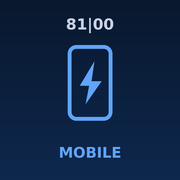
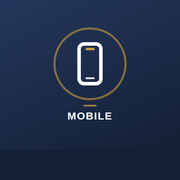
Mobile: restyling tema chiaro istituzionale + icone famiglia
Solo grafica/tema, nessuna logica toccata (id, funzioni, fetch/Supabase, struttura dati invariati).

- Tema da scuro (navy) a CHIARO ad alta leggibilita': blocco :root con la palette
  chiara base + colore-firma Mobile verde-teal #0e7c66.
- Font: da Inter/DM Mono/Syne a IBM Plex (Sans/Serif/Mono).
- Punti hardcoded corretti: teal #00b4a6 e rgba(0,180,166,*) -> #0e7c66/rgba(14,124,102,*);
  color:var(--navy) sui bottoni accento -> #fff; #0f1f3d -> #fff; testo chiaro fisso
  #e8eaf0 -> var(--text); blu #7aa0ff -> #3a52c4; font-family:monospace -> IBM Plex Mono.
  Scrim scuri delle modali conservati (fanno da velo su tema chiaro).
- theme-color e manifest aggiornati al colore-firma; background_color chiaro; icone
  purpose 'any' (no maskable); cache-bust ?v=2 sui link; sw cache -> v2.
- Nuove 5 icone della famiglia (base navy + anello oro + smartphone con notch oro +
  scritta MOBILE): icon-512/192, apple-touch-icon 180, favicon-32/16.

Claude-Session: https://claude.ai/code/session_01RkyLNG2qL5Mt4Jg2wrDvS1

diff --git a/index.html b/index.html
@@ -6,19 +6,24 @@
 <meta name="apple-mobile-web-app-capable" content="yes">
 <meta name="apple-mobile-web-app-status-bar-style" content="black-translucent">
 <meta name="apple-mobile-web-app-title" content="81|00">
-<meta name="theme-color" content="#0a1628">
+<meta name="theme-color" content="#0e7c66">
 <title>81|00 Mobile</title>
-<link rel="manifest" href="manifest.json">
-<link rel="apple-touch-icon" href="apple-touch-icon.png">
-<link href="https://fonts.googleapis.com/css2?family=Inter:wght@400;500;600;700;800&family=DM+Mono:wght@400;500&display=swap" rel="stylesheet">
+<link rel="manifest" href="manifest.json?v=2">
+<link rel="apple-touch-icon" href="apple-touch-icon.png?v=2">
+<link rel="icon" type="image/png" sizes="32x32" href="favicon-32.png?v=2">
+<link rel="icon" type="image/png" sizes="16x16" href="favicon-16.png?v=2">
+<link rel="icon" type="image/png" sizes="192x192" href="icon-192.png?v=2">
+<link rel="preconnect" href="https://fonts.googleapis.com">
+<link rel="preconnect" href="https://fonts.gstatic.com" crossorigin>
+<link href="https://fonts.googleapis.com/css2?family=IBM+Plex+Sans:wght@400;500;600;700&family=IBM+Plex+Serif:wght@600;700&family=IBM+Plex+Mono:wght@400;500;600&display=swap" rel="stylesheet">
 <style>
 *{box-sizing:border-box;margin:0;padding:0;-webkit-tap-highlight-color:transparent}
 :root{
-  --navy:#0a1628;--navy2:#0f1f3d;--teal:#00b4a6;--gold:#e8b84b;
-  --red:#e84b4b;--green:#4be87a;--text:#e8eaf0;--text2:#8a95a8;
-  --brd:rgba(255,255,255,.08);--card:rgba(255,255,255,.05);--r:14px
+  --navy:#eef1f5;--navy2:#ffffff;--teal:#0e7c66;--gold:#a9781a;
+  --red:#c0392f;--green:#2f8f5f;--text:#1b2740;--text2:#5f6a7d;
+  --brd:#e2e5ea;--card:#ffffff;--r:12px;--r2:8px
 }
-html,body{height:100%;background:var(--navy);color:var(--text);font-family:'Inter',-apple-system,BlinkMacSystemFont,'Helvetica Neue',sans-serif;overflow:hidden}
+html,body{height:100%;background:var(--navy);color:var(--text);font-family:'IBM Plex Sans',-apple-system,BlinkMacSystemFont,'Helvetica Neue',sans-serif;overflow:hidden}
 /* LAYOUT */
 #app{display:flex;flex-direction:column;height:100dvh}
 #hdr{background:var(--navy2);padding:calc(env(safe-area-inset-top)+10px) 16px 10px;display:flex;align-items:center;justify-content:space-between;border-bottom:1px solid var(--brd);flex-shrink:0}
@@ -55,14 +60,14 @@ html,body{height:100%;background:var(--navy);color:var(--text);font-family:'Inte
 /* BOTTONI */
 .btn{width:100%;padding:15px;border:none;border-radius:12px;font-family:-apple-system,sans-serif;font-size:16px;font-weight:700;cursor:pointer;margin-bottom:10px;transition:opacity .15s}
 .btn:active{opacity:.8}
-.btn-teal{background:var(--teal);color:var(--navy)}
-.btn-gold{background:var(--gold);color:var(--navy)}
+.btn-teal{background:var(--teal);color:#fff}
+.btn-gold{background:var(--gold);color:#fff}
 .btn-red{background:var(--red);color:#fff}
 .btn-ghost{background:var(--card);border:1px solid var(--brd);color:var(--text)}
 /* CHIP */
 .chips{display:flex;flex-wrap:wrap;gap:7px;margin-top:6px}
 .chip{padding:8px 14px;border-radius:20px;border:1px solid var(--brd);background:transparent;color:var(--text2);font-size:13px;font-weight:600;cursor:pointer}
-.chip.on{background:var(--teal);color:var(--navy);border-color:var(--teal)}
+.chip.on{background:var(--teal);color:#fff;border-color:var(--teal)}
 /* DIPENDENTE ROW */
 .dip-row{display:flex;align-items:center;padding:12px 0;border-bottom:1px solid var(--brd);gap:10px}
 .dip-row:last-child{border-bottom:none}
@@ -73,7 +78,7 @@ html,body{height:100%;background:var(--navy);color:var(--text);font-family:'Inte
 .dip-saldo{text-align:right;font-size:14px;font-weight:800;font-variant-numeric:tabular-nums;flex-shrink:0}
 /* PRESENZA CARD */
 .pres-card{background:var(--card);border:1px solid var(--brd);border-radius:12px;padding:12px;margin-bottom:8px}
-.pres-card.presente{border-color:rgba(0,180,166,.4);background:rgba(0,180,166,.05)}
+.pres-card.presente{border-color:rgba(14,124,102,.4);background:rgba(14,124,102,.05)}
 .pres-row{display:flex;align-items:center;gap:10px;margin-bottom:8px}
 .pres-toggle{width:44px;height:26px;border-radius:13px;border:none;cursor:pointer;position:relative;flex-shrink:0;transition:background .2s}
 .pres-toggle.on{background:var(--teal)}
@@ -89,7 +94,7 @@ html,body{height:100%;background:var(--navy);color:var(--text);font-family:'Inte
 /* FOTO */
 #foto-preview{width:100%;border-radius:10px;margin-bottom:10px;display:none;max-height:200px;object-fit:cover}
 /* TOAST */
-#toast{position:fixed;bottom:calc(env(safe-area-inset-bottom)+80px);left:50%;transform:translateX(-50%) translateY(20px);background:var(--teal);color:var(--navy);padding:10px 20px;border-radius:10px;font-weight:700;font-size:13px;opacity:0;transition:all .25s;z-index:99;pointer-events:none;white-space:nowrap}
+#toast{position:fixed;bottom:calc(env(safe-area-inset-bottom)+80px);left:50%;transform:translateX(-50%) translateY(20px);background:var(--teal);color:#fff;padding:10px 20px;border-radius:10px;font-weight:700;font-size:13px;opacity:0;transition:all .25s;z-index:99;pointer-events:none;white-space:nowrap}
 #toast.on{opacity:1;transform:translateX(-50%) translateY(0)}
 /* LOADING */
 #loading{position:fixed;inset:0;background:rgba(10,22,40,.9);display:flex;align-items:center;justify-content:center;z-index:100;flex-direction:column;gap:14px;display:none}
@@ -321,7 +326,7 @@ button{touch-action:manipulation}
   <div id="hdr-status">
     <span id="status-dot"></span>
     <span id="status-txt">Connessione...</span>
-    <button onclick="syncCloud()" style="background:rgba(0,180,166,.15);border:1px solid rgba(0,180,166,.3);color:var(--teal);border-radius:8px;padding:5px 10px;font-size:12px;font-weight:700;cursor:pointer">↻ Sync</button>
+    <button onclick="syncCloud()" style="background:rgba(14,124,102,.15);border:1px solid rgba(14,124,102,.3);color:var(--teal);border-radius:8px;padding:5px 10px;font-size:12px;font-weight:700;cursor:pointer">↻ Sync</button>
   </div>
 </div>
 
@@ -348,10 +353,10 @@ button{touch-action:manipulation}
       <input type="date" id="pres-data" onchange="loadPres();aggiornInfoPlanning()">
     </div>
     <!-- Box importa da Planning -->
-    <div style="background:rgba(0,180,166,.06);border:1px solid rgba(0,180,166,.2);border-radius:10px;padding:12px 14px;margin-bottom:12px">
+    <div style="background:rgba(14,124,102,.06);border:1px solid rgba(14,124,102,.2);border-radius:10px;padding:12px 14px;margin-bottom:12px">
       <div style="display:flex;align-items:center;justify-content:space-between;gap:10px;margin-bottom:8px">
         <div style="font-size:13px;font-weight:700;color:var(--teal)">📅 Importa dal Planning</div>
-        <button onclick="apriImportPlanningMob()" style="background:var(--teal);border:none;border-radius:8px;padding:8px 14px;color:var(--navy);font-size:12px;font-weight:800;cursor:pointer">Seleziona giorni</button>
+        <button onclick="apriImportPlanningMob()" style="background:var(--teal);border:none;border-radius:8px;padding:8px 14px;color:#fff;font-size:12px;font-weight:800;cursor:pointer">Seleziona giorni</button>
       </div>
       <div style="font-size:12px;color:var(--text2)">I dati esistenti non vengono mai modificati</div>
     </div>
@@ -372,7 +377,7 @@ button{touch-action:manipulation}
           <button onclick="setMobImpSettimana()" class="btn btn-ghost" style="flex:1;font-size:12px;padding:8px">Questa settimana</button>
         </div>
         <div id="mob-imp-anteprima"></div>
-        <button id="mob-imp-btn" onclick="confermImportaPlanningMob()" style="width:100%;background:var(--teal);border:none;border-radius:10px;padding:13px;color:var(--navy);font-size:14px;font-weight:800;cursor:pointer;margin-top:12px;opacity:.4" disabled>💾 Importa</button>
+        <button id="mob-imp-btn" onclick="confermImportaPlanningMob()" style="width:100%;background:var(--teal);border:none;border-radius:10px;padding:13px;color:#fff;font-size:14px;font-weight:800;cursor:pointer;margin-top:12px;opacity:.4" disabled>💾 Importa</button>
       </div>
     </div>
     <div style="display:flex;gap:8px;margin-bottom:14px">
@@ -475,7 +480,7 @@ button{touch-action:manipulation}
     <div style="font-size:18px;font-weight:800;margin-bottom:12px" id="dett-nome"></div>
 
     <!-- Budget inline -->
-    <div style="background:rgba(0,180,166,.08);border:1px solid rgba(0,180,166,.3);border-radius:12px;padding:14px;margin-bottom:14px">
+    <div style="background:rgba(14,124,102,.08);border:1px solid rgba(14,124,102,.3);border-radius:12px;padding:14px;margin-bottom:14px">
       <div style="font-size:12px;font-weight:700;text-transform:uppercase;letter-spacing:.5px;color:var(--teal);margin-bottom:4px">💰 Ricavo previsto / Budget</div>
       <div style="display:flex;justify-content:space-between;align-items:center;gap:8px">
         <div id="m-budget-val" style="font-size:20px;font-weight:800;color:var(--teal)">—</div>
@@ -484,7 +489,7 @@ button{touch-action:manipulation}
       <div id="m-budget-edit" style="display:none;margin-top:10px">
         <div style="display:flex;gap:8px">
           <input type="number" id="m-budget-input" placeholder="€" step="100" inputmode="decimal"
-            style="flex:1;background:var(--navy);border:1px solid var(--teal);border-radius:8px;color:var(--text);font-family:monospace;font-size:15px;padding:10px;outline:none">
+            style="flex:1;background:var(--navy);border:1px solid var(--teal);border-radius:8px;color:var(--text);font-family:'IBM Plex Mono',monospace;font-size:15px;padding:10px;outline:none">
           <button onclick="salvaMBudget()" style="background:var(--teal);border:none;border-radius:8px;padding:10px 16px;color:#fff;font-size:13px;font-weight:800;cursor:pointer">💾</button>
         </div>
       </div>
@@ -520,9 +525,9 @@ button{touch-action:manipulation}
     <!-- Filtro periodo -->
     <div style="display:flex;gap:8px;margin-bottom:14px;flex-wrap:wrap">
       <div style="flex:1"><label style="font-size:12px;color:var(--text2);font-weight:700;text-transform:uppercase;display:block;margin-bottom:3px">Da</label>
-        <input type="date" id="dett-da" onchange="renderDett()" style="background:var(--navy2);border:1px solid var(--brd);border-radius:8px;color:var(--text);font-family:monospace;font-size:13px;padding:8px 10px;width:100%;outline:none"></div>
+        <input type="date" id="dett-da" onchange="renderDett()" style="background:var(--navy2);border:1px solid var(--brd);border-radius:8px;color:var(--text);font-family:'IBM Plex Mono',monospace;font-size:13px;padding:8px 10px;width:100%;outline:none"></div>
       <div style="flex:1"><label style="font-size:12px;color:var(--text2);font-weight:700;text-transform:uppercase;display:block;margin-bottom:3px">A</label>
-        <input type="date" id="dett-al" onchange="renderDett()" style="background:var(--navy2);border:1px solid var(--brd);border-radius:8px;color:var(--text);font-family:monospace;font-size:13px;padding:8px 10px;width:100%;outline:none"></div>
+        <input type="date" id="dett-al" onchange="renderDett()" style="background:var(--navy2);border:1px solid var(--brd);border-radius:8px;color:var(--text);font-family:'IBM Plex Mono',monospace;font-size:13px;padding:8px 10px;width:100%;outline:none"></div>
       <button onclick="document.getElementById('dett-da').value='';document.getElementById('dett-al').value='';renderDett()" style="background:var(--navy2);border:1px solid var(--brd);border-radius:8px;padding:8px 12px;color:var(--text2);font-size:12px;margin-top:19px;cursor:pointer">Tutto</button>
     </div>
     <div id="dett-body"></div>
@@ -562,7 +567,7 @@ button{touch-action:manipulation}
       <div class="field"><label>Metodo</label><select id="minc-metodo"><option>Bonifico</option><option>Contanti</option><option>Assegno</option><option>RID/SEPA</option><option>Altro</option></select></div>
       <div class="field"><label>N° Fattura</label><input type="text" id="minc-fattura" placeholder="es. FT001/2026"></div>
       <div class="field"><label>Note</label><input type="text" id="minc-note" placeholder="es. Acconto 50%"></div>
-      <button onclick="salvaIncassoMob()" style="width:100%;background:var(--teal);border:none;border-radius:10px;padding:13px;color:var(--navy);font-size:14px;font-weight:800;cursor:pointer;margin-top:4px">💾 Registra</button>
+      <button onclick="salvaIncassoMob()" style="width:100%;background:var(--teal);border:none;border-radius:10px;padding:13px;color:#fff;font-size:14px;font-weight:800;cursor:pointer;margin-top:4px">💾 Registra</button>
     </div>
     <div id="inc-list-m"></div>
   </div>
@@ -594,7 +599,7 @@ button{touch-action:manipulation}
   .dia-f label{font-size:10.5px;text-transform:uppercase;letter-spacing:.5px;color:var(--text2);font-weight:700;padding-left:2px}
   .dia-f input,.dia-f select{background:var(--navy);border:1px solid var(--brd);border-radius:9px;color:var(--text);font-family:inherit;font-size:13.5px;padding:9px 10px;outline:none;width:100%;-webkit-appearance:none}
   .dia-f input:focus,.dia-f select:focus{border-color:var(--teal)}
-  .dia-f.eur input{font-family:monospace;color:var(--gold)}
+  .dia-f.eur input{font-family:'IBM Plex Mono',monospace;color:var(--gold)}
   select.dia-ok{border-color:rgba(75,232,122,.45)}
   select.dia-warn{border-color:rgba(232,184,75,.55);background:rgba(232,184,75,.06)}
   .dia-badge{font-size:10.5px;font-weight:700;padding-left:2px}
@@ -602,7 +607,7 @@ button{touch-action:manipulation}
   .dia-badge.warn{color:var(--gold)}
   .dia-seg{display:flex;gap:6px}
   .dia-segb{flex:1;padding:8px;border-radius:9px;border:1px solid var(--brd);background:var(--navy);color:var(--text2);font-size:12.5px;font-weight:700;cursor:pointer;font-family:inherit}
-  .dia-segb.on{background:rgba(0,180,166,.14);border-color:var(--teal);color:var(--teal)}
+  .dia-segb.on{background:rgba(14,124,102,.14);border-color:var(--teal);color:var(--teal)}
   .dia-chips{display:flex;flex-wrap:wrap;gap:6px}
   .dia-pchip{font-size:12px;font-weight:600;padding:5px 10px;border-radius:999px;border:1px solid var(--brd);background:var(--navy)}
   .dia-pchip.ok{color:var(--green);border-color:rgba(75,232,122,.35)}
@@ -1051,7 +1056,7 @@ function renderIncassiMob(){
         ${c.committente?`<div style="font-size:12px;color:var(--text2)">${c.committente}</div>`:''}
         </div>
         <div style="text-align:right">
-          <div style="font-size:13px;font-weight:700;color:${residuo>0?'var(--gold)':'var(--green)'};font-family:monospace">${fm(totaleInc)}${ricavo?` / ${fm(ricavo)}`:''}</div>
+          <div style="font-size:13px;font-weight:700;color:${residuo>0?'var(--gold)':'var(--green)'};font-family:'IBM Plex Mono',monospace">${fm(totaleInc)}${ricavo?` / ${fm(ricavo)}`:''}</div>
           <div style="font-size:12px;color:var(--text2)">${pct>=100?'✅ Saldato':residuo>0?`residuo: ${fm(residuo)}`:'nessun budget'}</div>
         </div>
       </div>
@@ -1062,11 +1067,11 @@ function renderIncassiMob(){
           ${x.fattura?`<div style="font-size:12px;color:var(--text2)">${x.fattura}</div>`:''}
           </div>
           <div style="display:flex;align-items:center;gap:8px">
-            <span style="font-family:monospace;font-weight:700;color:var(--green)">+${fm(x.importo)}</span>
+            <span style="font-family:'IBM Plex Mono',monospace;font-weight:700;color:var(--green)">+${fm(x.importo)}</span>
             <button onclick="elimIncassoMob('${x.id}')" style="background:none;border:none;color:var(--red);font-size:14px;cursor:pointer">✕</button>
           </div>
         </div>`).join('')}
-      ${ricavo>0&&residuo>0?`<button onclick="precompilaMIncasso('${c.id}','${residuo}')" style="width:100%;margin-top:8px;background:rgba(0,180,166,.08);border:1px dashed var(--teal);border-radius:8px;padding:9px;color:var(--teal);font-size:12px;font-weight:700;cursor:pointer">
+      ${ricavo>0&&residuo>0?`<button onclick="precompilaMIncasso('${c.id}','${residuo}')" style="width:100%;margin-top:8px;background:rgba(14,124,102,.08);border:1px dashed var(--teal);border-radius:8px;padding:9px;color:var(--teal);font-size:12px;font-weight:700;cursor:pointer">
         + Saldo (${fm(residuo)})</button>`:''}
     </div>`;
   });
@@ -1301,7 +1306,7 @@ function loadPres(){
 
     return`<div class="pres-card ${presente?'presente':''}" id="pc-${p.id}">
       <div class="pres-row">
-        <div class="av" style="${presente?'background:rgba(0,180,166,.2);color:var(--teal)':''}">${init}</div>
+        <div class="av" style="${presente?'background:rgba(14,124,102,.2);color:var(--teal)':''}">${init}</div>
         <div style="flex:1">
           <div style="font-size:14px;font-weight:700">${p.nome}</div>
           ${presente?`<div style="font-size:12px;color:var(--teal);font-weight:700">${fm(totDip)}</div>`:''}
@@ -1314,7 +1319,7 @@ function loadPres(){
           <div style="background:${t.notturno?'rgba(100,150,255,.08)':'var(--navy)'};border:1px solid ${t.notturno?'rgba(100,150,255,.3)':'var(--brd)'};border-radius:10px;padding:10px;margin-bottom:8px">
             <div style="margin-bottom:6px">
               <label style="font-size:12px;color:var(--text2);font-weight:700;text-transform:uppercase;display:block;margin-bottom:3px">Cantiere</label>
-              <select style="width:100%;background:var(--navy2);border:1px solid var(--brd);border-radius:8px;color:var(--text);font-family:'Syne',sans-serif;font-size:13px;padding:8px;outline:none" onchange="updateTurnoM('${p.id}',${ti},'cantiere',this.value)">
+              <select style="width:100%;background:var(--navy2);border:1px solid var(--brd);border-radius:8px;color:var(--text);font-family:'IBM Plex Sans',sans-serif;font-size:13px;padding:8px;outline:none" onchange="updateTurnoM('${p.id}',${ti},'cantiere',this.value)">
                 <option value="">— Nessun cantiere —</option>
                 ${cantOpzioni.replace(`value="${t.cantiere}"`,`value="${t.cantiere}" selected`)}
               </select>
@@ -1331,15 +1336,15 @@ function loadPres(){
               </div>
             </div>
             <div style="display:flex;justify-content:space-between;align-items:center;margin-top:8px">
-              <label style="display:flex;align-items:center;gap:6px;font-size:12px;color:${t.notturno?'#7aa0ff':'var(--text2)'};cursor:pointer">
-                <input type="checkbox" ${t.notturno?'checked':''} onchange="updateTurnoM('${p.id}',${ti},'notturno',this.checked)" style="accent-color:#7aa0ff;width:16px;height:16px">
+              <label style="display:flex;align-items:center;gap:6px;font-size:12px;color:${t.notturno?'#3a52c4':'var(--text2)'};cursor:pointer">
+                <input type="checkbox" ${t.notturno?'checked':''} onchange="updateTurnoM('${p.id}',${ti},'notturno',this.checked)" style="accent-color:#3a52c4;width:16px;height:16px">
                 🌙 Turno notturno<br><span style="font-size:12px;opacity:.7">${t.notturno?'Competenza: '+fd(nextDay(d)):''}</span>
               </label>
               <button onclick="rimuoviTurnoM('${p.id}',${ti})" style="background:rgba(232,75,75,.12);border:1px solid rgba(232,75,75,.3);border-radius:8px;padding:6px 12px;color:var(--red);font-size:12px;font-weight:700;cursor:pointer">✕ Rimuovi</button>
             </div>
           </div>`).join('')}
         </div>
-        <button onclick="aggiungiTurnoM('${p.id}')" style="width:100%;padding:10px;background:rgba(0,180,166,.06);border:1.5px dashed rgba(0,180,166,.4);border-radius:10px;color:var(--teal);font-size:12px;font-weight:700;cursor:pointer;margin-bottom:4px">➕ Aggiungi turno</button>
+        <button onclick="aggiungiTurnoM('${p.id}')" style="width:100%;padding:10px;background:rgba(14,124,102,.06);border:1.5px dashed rgba(14,124,102,.4);border-radius:10px;color:var(--teal);font-size:12px;font-weight:700;cursor:pointer;margin-bottom:4px">➕ Aggiungi turno</button>
       </div>
     </div>`;
   }).join('');
@@ -1539,7 +1544,7 @@ function renderSaldi(){
           <div class="dip-info"><div class="dip-nome">RESIDUO</div></div>
           <div class="dip-saldo" style="color:${colore};font-size:16px">${saldoTxt}</div>
         </div>
-        ${go?`<button onclick="saldaOraMob('${s.dipId}')" style="width:100%;margin-top:10px;background:rgba(0,180,166,.1);border:1px solid var(--teal);border-radius:8px;padding:10px;color:var(--teal);font-size:13px;font-weight:700;cursor:pointer">💰 Salda ora (${fm(s.saldo)})</button>`:''}
+        ${go?`<button onclick="saldaOraMob('${s.dipId}')" style="width:100%;margin-top:10px;background:rgba(14,124,102,.1);border:1px solid var(--teal);border-radius:8px;padding:10px;color:var(--teal);font-size:13px;font-weight:700;cursor:pointer">💰 Salda ora (${fm(s.saldo)})</button>`:''}
       </div>
     </div>`;
   }).join('')||'<div style="color:var(--text2);text-align:center;padding:30px;font-size:14px">Nessun risultato</div>';
@@ -1892,9 +1897,9 @@ function renderCantieri(){
 
   // Badge stato
   const statoBadge = c => {
-    if(c.tipo==='lungo_periodo') return `<span style="background:rgba(122,160,255,.15);color:#7aa0ff;border:1px solid rgba(122,160,255,.4);border-radius:5px;padding:2px 8px;font-size:12px;font-weight:700">📦 Deposito</span>`;
+    if(c.tipo==='lungo_periodo') return `<span style="background:rgba(122,160,255,.15);color:#3a52c4;border:1px solid rgba(122,160,255,.4);border-radius:5px;padding:2px 8px;font-size:12px;font-weight:700">📦 Deposito</span>`;
     const s=(c.stato||'').toLowerCase();
-    if(s.includes('corso')) return `<span style="background:rgba(0,180,166,.15);color:var(--teal);border:1px solid var(--teal);border-radius:5px;padding:2px 8px;font-size:12px;font-weight:700">🔨 In corso</span>`;
+    if(s.includes('corso')) return `<span style="background:rgba(14,124,102,.15);color:var(--teal);border:1px solid var(--teal);border-radius:5px;padding:2px 8px;font-size:12px;font-weight:700">🔨 In corso</span>`;
     if(s.includes('conclus')) return `<span style="background:rgba(75,232,122,.15);color:var(--green);border:1px solid var(--green);border-radius:5px;padding:2px 8px;font-size:12px;font-weight:700">✅ Concluso</span>`;
     if(s.includes('perso')||s.includes('rifiut')) return `<span style="background:rgba(232,84,84,.15);color:var(--red);border:1px solid var(--red);border-radius:5px;padding:2px 8px;font-size:12px;font-weight:700">❌ Perso</span>`;
     return `<span style="background:rgba(232,184,75,.15);color:var(--gold);border:1px solid var(--gold);border-radius:5px;padding:2px 8px;font-size:12px;font-weight:700">📋 Da conf.</span>`;
@@ -1936,7 +1941,7 @@ function renderCantieri(){
         <button onclick="apriDettCantiere('${cid}')" style="flex:1;background:var(--navy2);border:1px solid var(--brd);border-radius:7px;padding:7px;color:var(--text);font-size:12px;font-weight:700;cursor:pointer">📋 Dettaglio</button>
         <button onclick="cambiaStatoCantiere('${cid}')" style="flex:1;background:var(--navy2);border:1px solid var(--brd);border-radius:7px;padding:7px;color:var(--text2);font-size:12px;font-weight:700;cursor:pointer">✏ Stato</button>
         ${archiviato
-          ? `<button onclick="ripristinaCantiere('${cid}')" style="flex:1;background:rgba(0,180,166,.1);border:1px solid var(--teal);border-radius:7px;padding:7px;color:var(--teal);font-size:12px;font-weight:700;cursor:pointer">↩ Ripristina</button>`
+          ? `<button onclick="ripristinaCantiere('${cid}')" style="flex:1;background:rgba(14,124,102,.1);border:1px solid var(--teal);border-radius:7px;padding:7px;color:var(--teal);font-size:12px;font-weight:700;cursor:pointer">↩ Ripristina</button>`
           : `<button onclick="archiviaCantiere('${cid}')" style="flex:1;background:var(--navy2);border:1px solid var(--brd);border-radius:7px;padding:7px;color:var(--text2);font-size:12px;font-weight:700;cursor:pointer">🗄 Archivia</button>`
         }
       </div>
@@ -1945,7 +1950,7 @@ function renderCantieri(){
 
   let html = attivi.map(c=>cardCantiere(c,false)).join('');
   if(depositi.length){
-    html += `<div style="font-size:12px;font-weight:700;text-transform:uppercase;letter-spacing:.5px;color:#7aa0ff;margin:18px 0 8px">📦 Depositi attrezzature (${depositi.length})</div>`;
+    html += `<div style="font-size:12px;font-weight:700;text-transform:uppercase;letter-spacing:.5px;color:#3a52c4;margin:18px 0 8px">📦 Depositi attrezzature (${depositi.length})</div>`;
     html += depositi.map(c=>{
       const gg=c.dataRitiro?Math.ceil((new Date(c.dataRitiro+'T12:00:00')-new Date())/86400000):null;
       const cid=c.id||c.nome.replace(/\s/g,'_');
@@ -2138,11 +2143,11 @@ function renderDett(){
   if(pb){
     if(c && c.preventivoRef){
       pb.innerHTML=`<div style="background:rgba(122,160,255,.08);border:1px solid rgba(122,160,255,.3);border-radius:12px;padding:12px 14px;display:flex;align-items:center;justify-content:space-between;gap:8px">
-        <div><div style="font-size:12px;font-weight:700;text-transform:uppercase;letter-spacing:.5px;color:#7aa0ff">🧾 Preventivo collegato</div>
+        <div><div style="font-size:12px;font-weight:700;text-transform:uppercase;letter-spacing:.5px;color:#3a52c4">🧾 Preventivo collegato</div>
         <div style="font-size:15px;font-weight:800;margin-top:2px">${c.preventivoRef}</div></div>
         <span style="font-size:11px;color:var(--text2);text-align:right">completa<br>in Preventivi</span></div>`;
     } else if(c){
-      pb.innerHTML=`<button onclick="creaPreventivoDaDett()" style="width:100%;background:rgba(122,160,255,.08);border:1.5px dashed rgba(122,160,255,.5);border-radius:12px;padding:12px;color:#7aa0ff;font-size:14px;font-weight:700;cursor:pointer">🧾 Crea preventivo (bozza)</button>`;
+      pb.innerHTML=`<button onclick="creaPreventivoDaDett()" style="width:100%;background:rgba(122,160,255,.08);border:1.5px dashed rgba(122,160,255,.5);border-radius:12px;padding:12px;color:#3a52c4;font-size:14px;font-weight:700;cursor:pointer">🧾 Crea preventivo (bozza)</button>`;
     } else pb.innerHTML='';
   }
   const nLC=nome.toLowerCase().trim();
@@ -2366,9 +2371,9 @@ const DIARIO_TPL = {
 const DIARIO_META = {
   lavoro:{ic:'🗓',bg:'rgba(122,160,255,.16)',lbl:'Lavori in programma',dest:'Planning'},
   promemoria:{ic:'⏰',bg:'rgba(232,184,75,.16)',lbl:'Promemoria & appuntamenti',dest:'Agenda'},
-  turno:{ic:'📅',bg:'rgba(0,180,166,.16)',lbl:'Turni & presenze',dest:'Presenze'},
+  turno:{ic:'📅',bg:'rgba(14,124,102,.16)',lbl:'Turni & presenze',dest:'Presenze'},
   anticipo:{ic:'💸',bg:'rgba(232,184,75,.16)',lbl:'Anticipi',dest:'Saldi'},
-  pagamento:{ic:'💰',bg:'rgba(0,180,166,.16)',lbl:'Pagamenti',dest:'Saldi'},
+  pagamento:{ic:'💰',bg:'rgba(14,124,102,.16)',lbl:'Pagamenti',dest:'Saldi'},
   spesa:{ic:'🧾',bg:'rgba(232,184,75,.16)',lbl:'Spese',dest:'Spese'},
   danno:{ic:'⚠',bg:'rgba(232,75,75,.16)',lbl:'Danni',dest:'Danni'},
   incasso:{ic:'📥',bg:'rgba(75,232,122,.16)',lbl:'Incassi',dest:'Incassi'}
@@ -2594,8 +2599,8 @@ function diarioCard(a){
       <div class="dia-f full"><label>Mezzo</label><input value="${_de(a.mezzo)}" placeholder="— nessuno —" onchange="diarioSet(${a._i},'mezzo',this.value)"></div>
       ${(a.righe&&a.righe.length)?`<div class="dia-f full"><label>Righe preventivo (${a.righe.length})</label>
         <div style="background:var(--navy);border:1px solid var(--brd);border-radius:9px;padding:8px 10px;font-size:12.5px">
-          ${a.righe.map(r=>`<div style="display:flex;justify-content:space-between;gap:8px;padding:3px 0"><span>${_de(r.descrizione)}${r.qta>1?' · '+r.qta+'×'+fm(r.prezzo):''}</span><span style="font-family:monospace;color:var(--gold)">${fm((r.qta||1)*(r.prezzo||0))}</span></div>`).join('')}
-          <div style="display:flex;justify-content:space-between;border-top:1px solid var(--brd);margin-top:4px;padding-top:5px;font-weight:800"><span>Imponibile</span><span style="font-family:monospace">${fm(a.righe.reduce((s,r)=>s+(r.qta||1)*(r.prezzo||0),0))}</span></div>
+          ${a.righe.map(r=>`<div style="display:flex;justify-content:space-between;gap:8px;padding:3px 0"><span>${_de(r.descrizione)}${r.qta>1?' · '+r.qta+'×'+fm(r.prezzo):''}</span><span style="font-family:'IBM Plex Mono',monospace;color:var(--gold)">${fm((r.qta||1)*(r.prezzo||0))}</span></div>`).join('')}
+          <div style="display:flex;justify-content:space-between;border-top:1px solid var(--brd);margin-top:4px;padding-top:5px;font-weight:800"><span>Imponibile</span><span style="font-family:'IBM Plex Mono',monospace">${fm(a.righe.reduce((s,r)=>s+(r.qta||1)*(r.prezzo||0),0))}</span></div>
           <div style="font-size:11px;color:var(--text2);margin-top:3px">+ IVA 22% · dettaglio poi modificabile in Preventivi</div>
         </div></div>`:''}`;
   } else if(a.tipo==='promemoria'){

diff --git a/sw.js b/sw.js
@@ -1,4 +1,4 @@
-const CACHE_NAME = 'otto8100-mobile-v1';
+const CACHE_NAME = 'otto8100-mobile-v2';
 
 self.addEventListener('install', e => {
   e.waitUntil(
